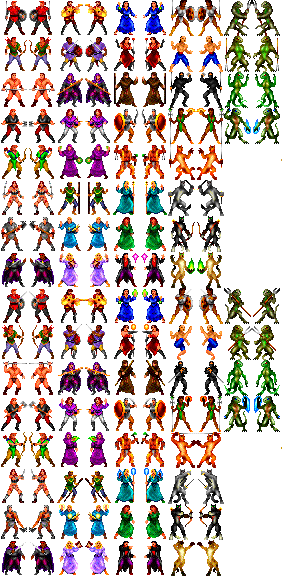
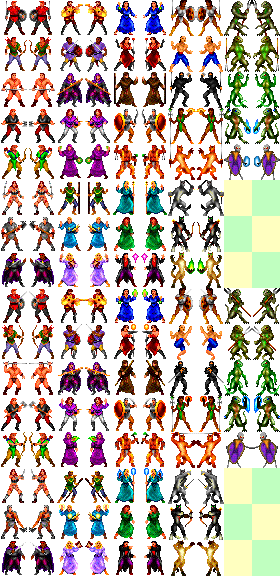
Add a Vahnatai PC graphic by "Kelyar-Ihrno"

diff --git a/src/scenedit/scen.keydlgs.cpp b/src/scenedit/scen.keydlgs.cpp
@@ -174,7 +174,7 @@ pic_num_t choose_graphic(short cur_choice,ePicType g_type,cDialog* parent) {
 		case PIC_SCEN: total_pics = 30; break;
 		case PIC_ITEM: case PIC_TINY_ITEM: total_pics = 139; break;
 		// TODO: Include small monster graphics in the PC pic picker
-		case PIC_PC: total_pics = 36; break;
+		case PIC_PC: total_pics = 37; break;
 		case PIC_FIELD: all_pics = field_pics; break;
 		case PIC_BOOM: all_pics = boom_pics; break;
 		case PIC_DLOG_LG: all_pics = lgdlog_pics; break;

diff --git a/src/boe.party.cpp b/src/boe.party.cpp
@@ -2160,7 +2160,7 @@ bool pick_pc_graphic(short pc_num,short mode,cDialog* parent) {
 	
 	make_cursor_sword();
 	
-	cPictChoice pcPic(0,35,PIC_PC,parent);
+	cPictChoice pcPic(0,36,PIC_PC,parent);
 	// Customize it for this special case of choosing a PC graphic
 	dynamic_cast<cPict&>(pcPic->getControl("mainpic")).setPict(7);
 	pcPic->getControl("prompt").setText("Select a graphic for your PC:");

diff --git a/rsrc/graphics/CREDITS.md b/rsrc/graphics/CREDITS.md
@@ -29,7 +29,7 @@ though in some cases rearranged a little:
 - outhelp.png
 - pcedbuttons.png
 - pcedtitle.png
-- pcs.png
+- pcs.png (except the Vahnatai which is by Kelyar-Ihrno)
 - pixpats.png
 - scenpics.png
 - spidlogo.png
